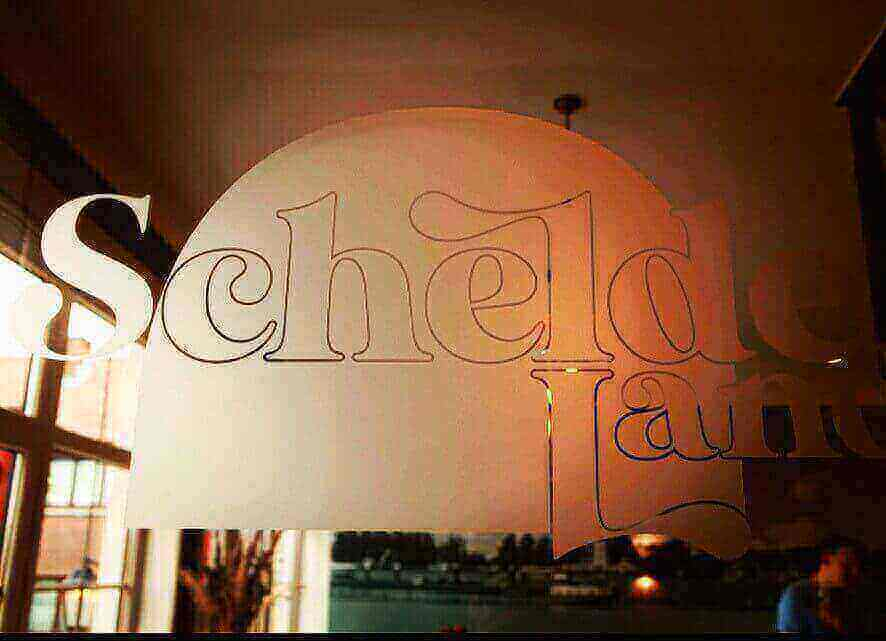
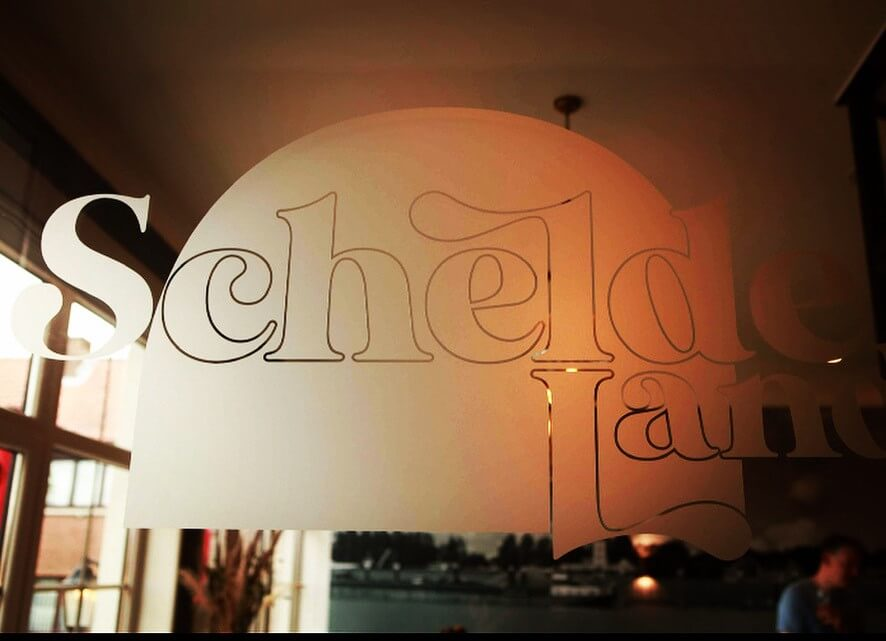
Changed images

diff --git a/src/pages/dishes/dishes.module.css b/src/pages/dishes/dishes.module.css
@@ -8,6 +8,10 @@ body {
     padding: 0;
 }
 
+body
+{
+  background-color: rgba(0, 0, 0, 0.5);
+}
 
 
 .container {
@@ -303,7 +307,7 @@ body {
 
 
 @media only screen and (max-width: 450px) {
-    ::-webkit-scrollbar {
+    /* ::-webkit-scrollbar {
         width: 1px;
         background-color: black;
         border: 1px solid transparent;
@@ -316,9 +320,9 @@ body {
         border: 1px solid transparent;
         background-clip: border-box;
     }
-    /* ::-webkit-scrollbar-thumb:hover {
+    ::-webkit-scrollbar-thumb:hover {
         background-color: #bdbdbd;
-    } */
+    }
     
     html,
     body {
@@ -330,7 +334,7 @@ body {
     }
     body {
         overflow-y: auto;
-    }
+    } */
 
     .headTitle, .kisdMenuTitle {
         font-size: 1.5rem;

diff --git a/src/pages/dishes/Dishes.js b/src/pages/dishes/Dishes.js
@@ -11,7 +11,7 @@ import {
 } from './_query';
 import Layout from '../../components/layout';
 import { Spinner } from './../../components/shared/Spinner';
-import image from "../../assets/menuBackground.jpg";
+import image from "../../assets/DishesBackgroundImage.jpg";
 import styles from "./dishes.module.css"
 
 
